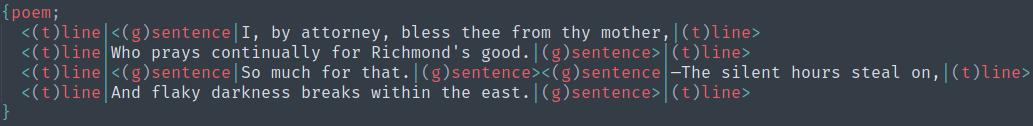
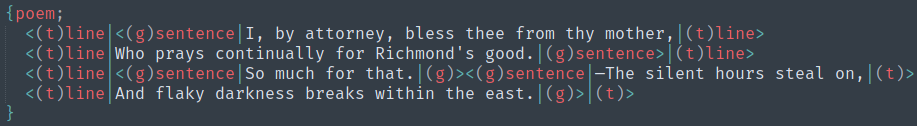
Improved examples.

Changed region(s): [[0.0, 0.1905, 1.0, 0.8095], [0.0, 0.0238, 0.0916, 0.1667], [0.0, 0.8333, 0.0305, 0.9524]]

diff --git a/README.md b/README.md
@@ -38,12 +38,14 @@ Text source: https://github.com/usgpo/house-manual/blob/master/114/original-file
 
 This document has three views: the empty/default one, `t` for typography and `g` for grammar.
 
+Note that ending tags can be abbreviated: `|>` (default namespace) and `|(t)>` (for view `t`).
+
 ```cptml
 {poem;
   <(t)line|<(g)sentence|I, by attorney, bless thee from thy mother,|(t)line>
   <(t)line|Who prays continually for Richmond's good.|(g)sentence>|(t)line>
-  <(t)line|<(g)sentence|So much for that.|(g)sentence><(g)sentence|—The silent hours steal on,|(t)line>
-  <(t)line|And flaky darkness breaks within the east.|(g)sentence>|(t)line>
+  <(t)line|<(g)sentence|So much for that.|(g)><(g)sentence|—The silent hours steal on,|(t)>
+  <(t)line|And flaky darkness breaks within the east.|(g)>|(t)>
 }
 ```
 
